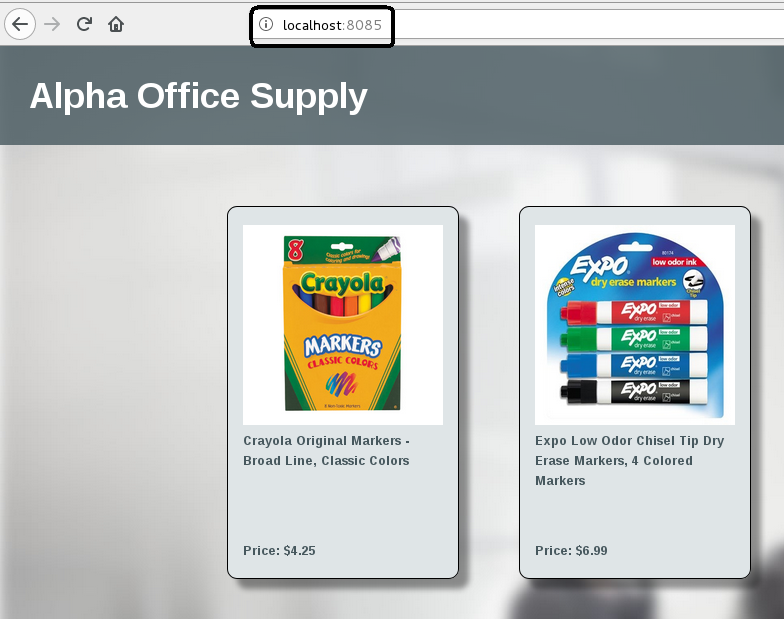
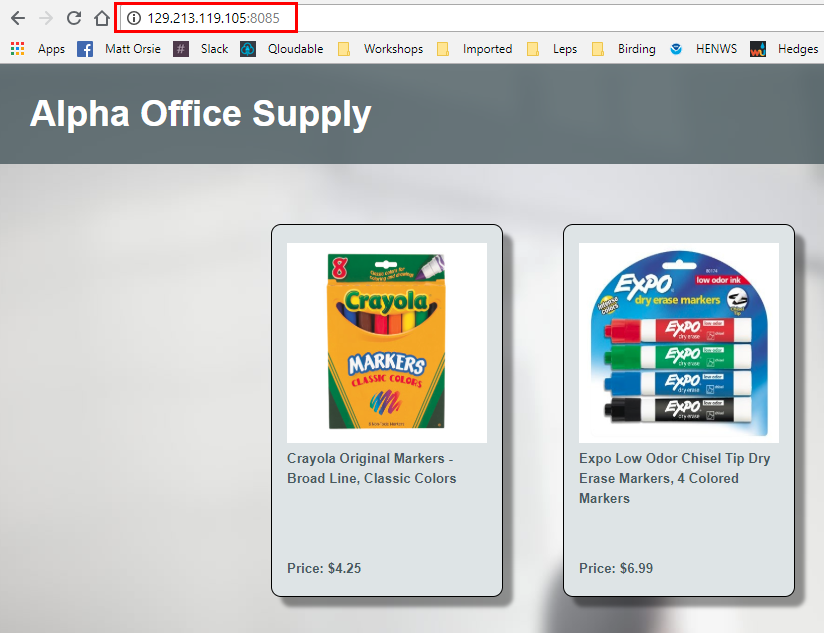
Updates

diff --git a/Linux200.md b/Linux200.md
@@ -472,13 +472,13 @@ If you configured both ORACLE and MYSQL databases then you can stop the `restcli
 - **Type** OR cut and paste:
 
 ```
-docker run -d --name=alphaofficeui -p=8085:8085 wvbirder/alpha-office-catalog-ui
+docker run -d --name=alphaofficeui -p=8085:8085 wvbirder/alpha-office-ui-js
 ```
 
 - After it is running test the completed application deployment by going to the browser, and opening a new tab:
 
 ```
-http://localhost:8085
+http://<Public-IP>:8085
 ```
 
 - You should see something like:
@@ -490,6 +490,8 @@ http://localhost:8085
 ![](images/200Linux/Picture200-27.png)
 
 # Make changes to the AlphaOffice application
+
+**NOTE:** `For those of you who came to this Workshop via the Oracle Jump Start this section does some, but not all, of the same modifications you did in the Jump Start.`
 
 In this section you will make a couple of changes to the AlphaOfficeUI application. One will correct a typo and another will change the background image. The flow for this will be as follows:
 
@@ -505,17 +507,17 @@ In this section you will make a couple of changes to the AlphaOfficeUI applicati
 
 ### **STEP 1**: Copy a New Background Image
 
-Copy a background image file into the running AlphaOfficeUI container. This file is in your YOUR_HOME/AlphaOfficeSetup directory that you GIT cloned at the beginning of the lab
+Copy a background image file into the running AlphaOfficeUI container. This file is in the <YOUR_HOME>/AlphaOfficeSetup directory that you GIT cloned at the beginning of the lab
 
-- **Type** (substituting **\<YOUR-HOME>**)
+- **Type** (substituting **\/home/opc**)
 
 ```
-docker cp /<YOUR_HOME>/AlphaOfficeSetup/dark_blue.jpg alphaofficeui:/pipeline/source/public/Images
+docker cp /home/opc/AlphaOfficeSetup/dark_blue.jpg alphaofficeui:/pipeline/source/public/Images
 ```
 
-  Example: docker cp /home/holuser/AlphaOfficeSetup/dark_blue.jpg alphaofficeui:/pipeline/source/public/Images
+  Example: docker cp /home/opc/AlphaOfficeSetup/dark_blue.jpg alphaofficeui:/pipeline/source/public/Images
 
-### **STEP 2**: Install the VIM editor in the container
+### **STEP 2**: Install the VIM editor in the UI container
 
 Even though the orginal AlphaOfficeUI image could have been set up ahead of time with any needed client tools we're adding the the environment on-the-fly to give you some idea that it can be done
 
@@ -557,7 +559,7 @@ ls /pipeline/source/public/Images
 vim /pipeline/source/public/alpha.html
 ```
 
-- Move the cursor to the text you wish to edit and press the letter __i__ to make changes. Fix the header title to read "**Alpha Office Product Listing**". You can also change the body title to whatever you want:
+- Move the cursor to the text you wish to edit and press the letter __i__ to make changes. Fix the header title to read "**Alpha Office Product Catalog**". You can also change the body title to whatever you want:
 
 ![](images/200Linux/Picture200-29.png)
 
@@ -589,7 +591,7 @@ exit
 
 ### **STEP 1**: Commit a NEW Docker image
 
-In this step you will save a copy of your modifed docker container and give it a new name. You're back out in the HOST now. Substitute your docker hub account name where asked for in the following commands:
+In this step you will save a copy of your modifed docker container and give it a new name. You're back out in the HOST now. Substitute your docker hub account name and give the new image a name where asked for in the following commands:
 
 - **Type** in following:
 
@@ -611,15 +613,22 @@ docker images
 
 ### **STEP 2**: Start a container based on your new image
 
-Since there is already a running `alphaofficeui` container we'll name the new container `alphaofficeui2` and use port 8086 on the HOST since 8085 is in use. We will also use the PORT enviroment variable.
+We will now stop and remove the old version of AlphaOfficeUI and fire off a new container based on your changes.
 
 - **Type** the following:
 
 ```
-docker run -d --name=alphaofficeui2 -p=8086:8086 -e PORT=8086 (your-dockerhub-account)/(image-name)
+docker stop alphaofficeui
+docker rm alphaofficeui
 ```
 
-- Example: `docker run -d --name=alphaofficeui2 -p=8086:8086 -e PORT=8086 wvbirder/alphaoffice-new`
+- Start a new container using your new Docker image. **Cut and Paste OR Type**: (Substituting your DockerHub account name and the image name you created in Step 1)
+
+```
+docker run -d --name=alphaofficeui -p=8085:8085 (your-dockerhub-account)/(image-name)
+```
+
+- Example: `docker run -d --name=alphaofficeui -p=8085:8085  wvbirder/alphaoffice-new`
 
 - Verify the new container is running by **typing**:
 
@@ -632,7 +641,7 @@ docker ps
 - Open up a new browser tab and **enter**:
 
 ```
-http://localhost:8086
+http://<Public-IP>:8085
 ```
 
 ![](images/200Linux/Picture200-33.png)
